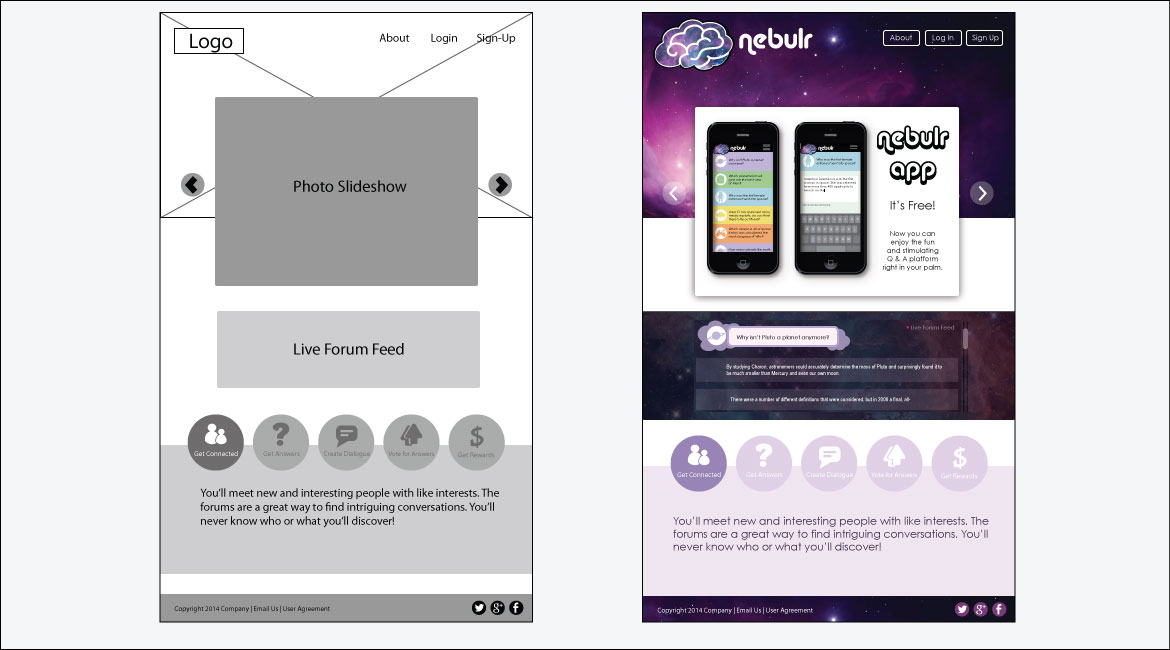
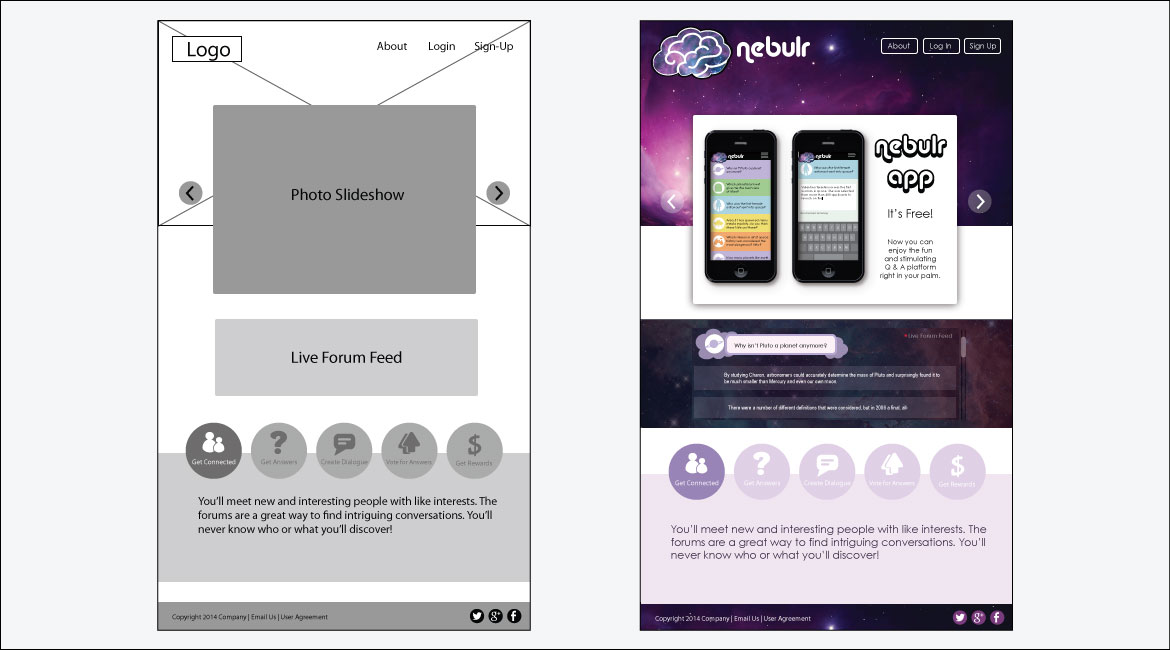
nebulr

diff --git a/portfolio-Nebulr.html b/portfolio-Nebulr.html
@@ -52,29 +52,29 @@
   <div class="pcw">
     <div class="container inner">
       <div class="owl-carousel portfolio-slider custom-controls">
-        <div class="item"><img src="style/images/ZombieCritters/p1.jpg" width="1170" height="650" alt="" /></div>
-        <div class="item"><img src="style/images/ZombieCritters/p2.jpg" width="1170" height="650" alt="" /></div>
-        <div class="item"><img src="style/images/ZombieCritters/p3.jpg" width="1170" height="650" alt="" /></div>
+        <div class="item"><img src="style/images/Nebulr/p1.jpg" width="1170" height="650" alt="" /></div>
+        <div class="item"><img src="style/images/Nebulr/p2.jpg" width="1170" height="650" alt="" /></div>
+       
       </div>
       <div class="divide30"></div>
-      <h1 class="post-title">Zombie Critters</h1>
+      <h1 class="post-title">Nebulr</h1>
       <div class="row">
         <div class="col-sm-8">
           <p>A mobile game I developed in the summer of 2014. I created all the art assets and animations using Illustrator and coded the project in Objective-C in XCode. Throughout the production process, I successfully fixed bugs by and improved user flow by analyzing player data. </p>
           <p>After shipping the project, I successfully updated the game with a new enemy type. The music featured in the game was made by Tomas Kul Lee.</p>
-          <a href="https://itunes.apple.com/us/app/zombie-critters/id908548006?mt=8" class="btn">View in App Store</a> </div>
+		</div>
         <!-- /.col-sm-8 -->
         <div class="col-sm-4 lp30">
           <ul class="item-details">
             <li>
               <h4>Date</h4>
-              July 2014</li>
+              June 2014</li>
             <li>
               <h4>Categories</h4>
-              Mobile Development, Game Production</li>
+              Mobile/Web App</li>
             <li>
               <h4>Tools</h4>
-              Illustrator, XCode</li>
+              Illustrator</li>
           </ul>
         </div>
         <!-- /.col-sm-4 --> 

diff --git a/index.html b/index.html
@@ -108,12 +108,12 @@
                 </div>
                 <img src="style/images/ZombieCritters/t1.jpg" alt="" /> </a></figure>
             </li>
-            <li class="item thumb graphic">
-              <figure><a href="#" data-contenturl="portfolio-post2.html" data-callback="callPortfolioScripts();" data-contentcontainer=".pcw">
+            <li class="item thumb mobile web">
+              <figure><a href="#" data-contenturl="portfolio-Nebulr.html" data-callback="callPortfolioScripts();" data-contentcontainer=".pcw">
                 <div class="text-overlay">
-                  <div class="info">Half Slider</div>
+                  <div class="info">Nebulr</div>
                 </div>
-                <img src="style/images/art/p2.jpg" alt="" /> </a></figure>
+                <img src="style/images/Nebulr/t1.jpg" alt="" /> </a></figure>
             </li>
             <li class="item thumb web">
               <figure><a href="#" data-contenturl="portfolio-post3.html" data-callback="callPortfolioScripts();" data-contentcontainer=".pcw">
